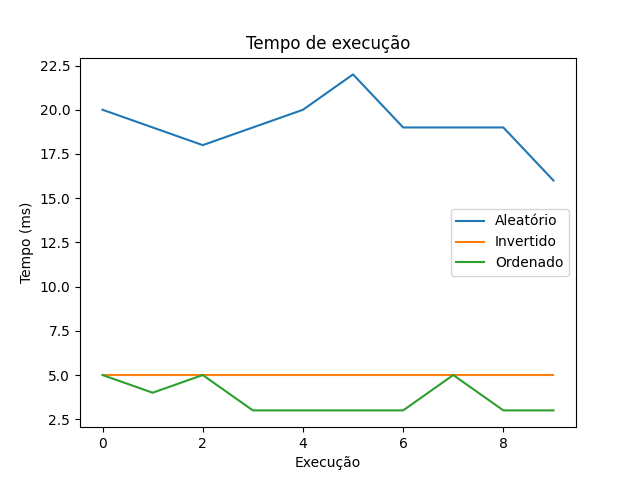
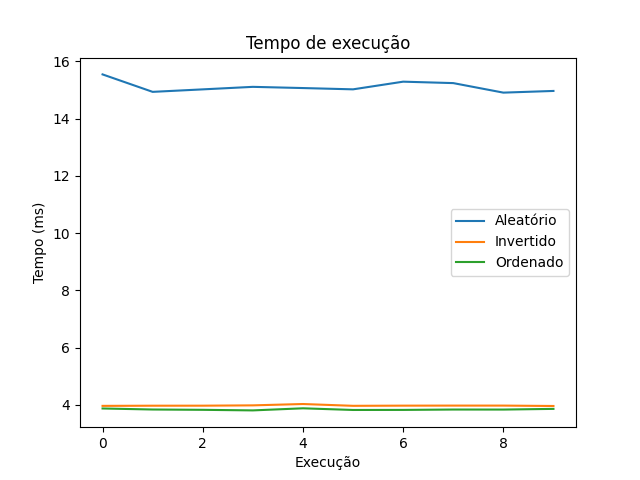
corrigido

diff --git a/quicksort.cpp b/quicksort.cpp
@@ -79,7 +79,7 @@ void quickSort(int vet[], int ini, int fim){
     // porque tende a evitar que o piv? seja o maior ou menor n?mero do vetor
     // int pivo = vet[ini + (fim-ini) / 2];
     // int pivo = median3(vet, ini, fim);
-    int pivo =  ini + (fim - ini) / 2;
+    int pivo =  vet[ini + (fim - ini) / 2];
 
     // Vari?veis i e j para percorrer o vetor
     // i come?a no primeiro elemento da parte do vetor a ser ordenada
@@ -91,7 +91,7 @@ void quickSort(int vet[], int ini, int fim){
     // Ao final do loop, os n?meros que s?o maiores do que o piv?
     // estar?o ? sua esquerda, e os maiores ? sua direita
     // A condi??o de parada ? quando i for maior ou igual a j
-    while (true){
+    while (i < j){
 
         // Loop para encontrar um elemento que seja
         // maior do que o piv? e que esteja antes do piv?
@@ -117,7 +117,7 @@ void quickSort(int vet[], int ini, int fim){
 
 
         // Caso i seja maior ou igual a j, ent?o todo o vetor j? foi percorrido
-        if (i >= j){
+        if (i == j){
             break;
         }
 
@@ -129,7 +129,6 @@ void quickSort(int vet[], int ini, int fim){
         int aux = vet[i];  // Uso de uma vari?vel auxiliar para fazer a troca
         vet[i] = vet[j];
         vet[j] = aux;
-
     }
 
     // Neste ponto, todos os n?meros menores do que o piv? est?o ? sua esquerda
@@ -161,9 +160,9 @@ int main(){
     // Gerar um vetor com 50000 n?meros
     int n = 50000;
     int vet[n];
-    gera_vetor_aleatorio(vet, n);
+    // gera_vetor_aleatorio(vet, n);
     // gera_vetor_ordenado_ASC(vet, n);
-    // gera_vetor_ordenado_DESC(vet, n);
+    gera_vetor_ordenado_DESC(vet, n);
     // imprime_vetor(vet,n);
 
     // Tempo inicial da execu??o
@@ -177,8 +176,8 @@ int main(){
     t = clock() - t;
 
     // Exibir tempo de execu??o, n?mero de compara??es e de trocas
-     imprime_vetor(vet, n);
-    printf("Tempo de execu??o: %.3f ms\n", t/1000);  // Exibir em ms
+    // imprime_vetor(vet, n);
+    printf("Tempo de execucao: %.3f ms\n", t/1000);  // Exibir em ms
     printf("Quantidade de Comparacoes: %d\n", quantComparacoes);
     printf("Quantidade de trocas: %d\n", quantTrocas);
 
